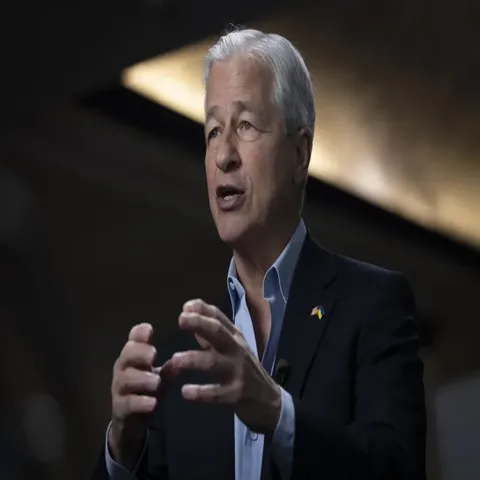
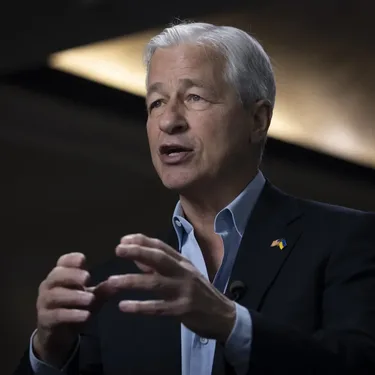
T3: fix header nav wrapping on long translations, un-stretch leader photos
Header nav (menu links, logo, CTA button) now shrinks progressively at
desktop widths instead of wrapping to a second line when translated
labels run long (e.g. Italian). header__body switched from fixed height
to min-height as a safety net if it still wraps at extreme lengths.

Jamie_Dimon.webp and Larry_Fink.webp were horizontally squished by an
earlier "shrink oversized images" pass that ran cwebp -resize on
non-square originals (1440x960 and 2000x1333) without cropping to
square first. Re-cropped from the original commit's source images and
resized properly.

diff --git a/templates/template_3/css/main-1.css b/templates/template_3/css/main-1.css
@@ -349,8 +349,13 @@ main {
   font-family: var(--font-family-logo);
   letter-spacing: -0.02rem;
 }
+@media (width <= 87.4875rem) {
+  .header__logo > span {
+    font-size: 1.5rem;
+  }
+}
 .header__body {
-  height: 6.25rem;
+  min-height: 6.25rem;
   align-items: center;
   border-bottom: var(--border-header);
   background-color: var(--color-black);
@@ -403,8 +408,15 @@ main {
   display: flex;
   align-items: center;
   flex-wrap: wrap;
-  -moz-column-gap: 2rem;
-       column-gap: 2rem;
+  -moz-column-gap: 1.25rem;
+       column-gap: 1.25rem;
+  row-gap: 0.5rem;
+}
+@media (width <= 87.4875rem) {
+  .header__menu-list {
+    -moz-column-gap: 0.875rem;
+         column-gap: 0.875rem;
+  }
 }
 @media (width <= 63.99875rem) {
   .header__menu-list {
@@ -413,12 +425,24 @@ main {
   }
 }
 .header__menu-link {
-  font-size: 1rem;
+  font-size: 0.875rem;
   color: var(--color-white);
   font-style: normal;
   font-weight: 400;
   line-height: 140%;
   letter-spacing: -0.02rem;
+  white-space: nowrap;
+}
+@media (width <= 87.4875rem) {
+  .header__menu-link {
+    font-size: 0.75rem;
+  }
+}
+@media (width <= 63.99875rem) {
+  .header__menu-link {
+    font-size: 1rem;
+    white-space: normal;
+  }
 }
 @media (any-hover: hover) {
   .header__menu-link:hover {
@@ -438,8 +462,8 @@ main {
   border-radius: 0.625rem;
 }
 .header__button {
-  font-size: 1rem;
-  min-width: 15.25rem;
+  font-size: 0.9375rem;
+  min-width: 11rem;
   text-align: center;
   font-weight: 500;
   line-height: 140%;
@@ -447,8 +471,16 @@ main {
   border-radius: var(--border-radius-button);
   border: 0.0625rem solid var(--color-accent);
   color: var(--color-accent);
-  padding: 1.25rem 2.5rem;
+  padding: 1rem 1.75rem;
+  white-space: nowrap;
   cursor: pointer;
+}
+@media (width <= 87.4875rem) {
+  .header__button {
+    font-size: 0.8125rem;
+    min-width: 8.5rem;
+    padding: 0.75rem 1.25rem;
+  }
 }
 @media (any-hover: hover) {
   .header__button:hover {
